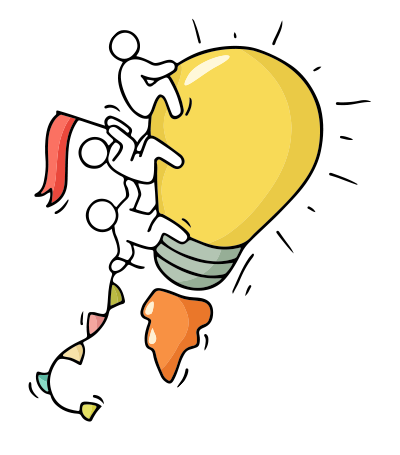
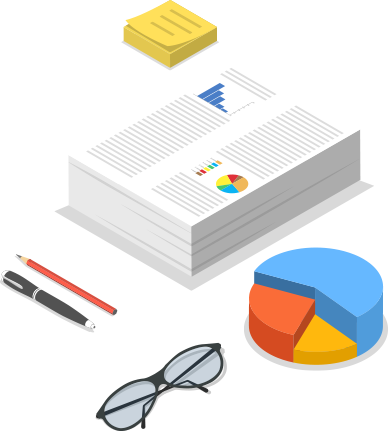
login - register coming soon, about page new art

diff --git a/templates/about.html b/templates/about.html
@@ -16,13 +16,17 @@
           <p>Of course, we only work with the mathematical formulas and the digital signatures of your documents. This isn't making your documents accesible or readable for anybody. Not even we get to see your document.  It's the computed document hash that is publicly available and it's this computed document hash that we use to make your original document verifiable and trusted.</p>
           <p>Once we have done that, we will email you a permanent link referencing <a href="#">the proof of your document on the Blockain.</a> This proof is valid forever, guaranteed by the Blockchain network itself. It's really that simple. :)</p>
         </div>
+        <img class="art-img" src="../static/images/art1-what.png">
       </div><!-- content 1 END -->
       <div class="center">
         <h2>How it Works</h2>
         <div class="content-box"><!-- content 2 -->
-          <p><span>Blockchain Notary</span> is an open source service that computes the <a href="#">cryptographic hash</a> for your documents and store this cryptographic information on the Blockchain.</p>
-          <p>We use the <a href="#">SHA-2 algorithm</a> to compute hash for your files and we never get to actually upload your file anywhere to a server. This means that your document content is 100% secured and cryptographically protected along the way.</p>
-          <p>Using our service, you will get the ultimate proof of your digital document yet it's secure and nobody but you gets to access the content whilst everyone will have an ability to verify it's authenticity. Yeah, and that's how it works really.  Blockchain rules.</p>
+          <div class="info-leyout">
+            <p><span>Blockchain Notary</span> is an open source service that computes the <a href="#">cryptographic hash</a> for your documents and store this cryptographic information on the Blockchain.</p>
+            <p>We use the <a href="#">SHA-2 algorithm</a> to compute hash for your files and we never get to actually upload your file anywhere to a server. This means that your document content is 100% secured and cryptographically protected along the way.</p>
+            <p>Using our service, you will get the ultimate proof of your digital document yet it's secure and nobody but you gets to access the content whilst everyone will have an ability to verify it's authenticity. Yeah, and that's how it works really.  Blockchain rules.</p>
+          </div>
+          <img class="art-img2" src="../static/images/art2-work.png">
         </div><!-- content 2 END -->
       </div>
       <div class="centerp">

diff --git a/static/css/main.css b/static/css/main.css
@@ -244,6 +244,38 @@ p a:hover {
 .header .main-nav a.register:hover {
   background: #2573b7;
 }
+.header .main-nav a.non-operational {
+  position: relative;
+}
+.header .main-nav a.non-operational span {
+  position: absolute;
+  display: block;
+  font-size: 1.2rem;
+  background: #333;
+  color: #fff;
+  padding: 1rem;
+  width: 10rem;
+  left: 50%;
+  margin-left: -6rem;
+  bottom: -3rem;
+  text-align: center;
+  border-radius: 2rem;
+  display: none;
+}
+.header .main-nav a.non-operational span::before {
+  content: '';
+  position: absolute;
+  width: 0;
+  height: 0;
+  border-left: 0.6rem solid transparent;
+  border-right: 0.6rem solid transparent;
+  border-bottom: 0.6rem solid #333;
+  top: -0.6rem;
+  left: 3rem;
+}
+.header .main-nav a.non-operational:hover span {
+  display: block;
+}
 
 /*-- promo banner --*/
 .promo-banner {
@@ -385,6 +417,11 @@ p a:hover {
   cursor: pointer;
   font-size: 1.6rem;
   outline: none;
+}
+.notarize-action #upload-button-notarize.action {
+  background-color: #d74848;
+  border: solid 2px #fff;
+  color: #fff;
 }
 .notarize-action .action::after {
   display: none;
@@ -613,6 +650,15 @@ p a:hover {
 .inner-content .half-wrap .content-box {
   padding: 4rem 3rem;
   box-sizing: border-box;
+}
+.inner-content .art-img, .inner-content .art-img2 {
+  float: right;
+  width: 30%;
+  display: block;
+}
+.inner-content .art-img2 {
+  width: 20%;
+  margin-right: 5%;
 }
 .alert-top {
   background-color: #f2dede;
@@ -924,5 +970,11 @@ p a:hover {
   }
   .alert-top {
     display: block;
+  }
+  .inner-content .art-img, .inner-content .art-img2 {
+    float: none;
+    width: 50%;
+    margin: 2rem auto 2rem;
+    max-width: 26rem;
   }
 }

diff --git a/templates/header.html b/templates/header.html
@@ -11,8 +11,8 @@
             <a href="/logout">Logout</a>
         {% else %}
             <a href="/about">About</a>
-            <a href="/login">Login</a>
-            <a class="register" href="/register">Register</a>
+            <a class="non-operational" href="#">Login <span>coming soon</span></a>
+            <a class="register non-operational" href="#">Register <span>coming soon</span></a>
         {% endif %}
         </nav>
         <!-- main nav END -->
